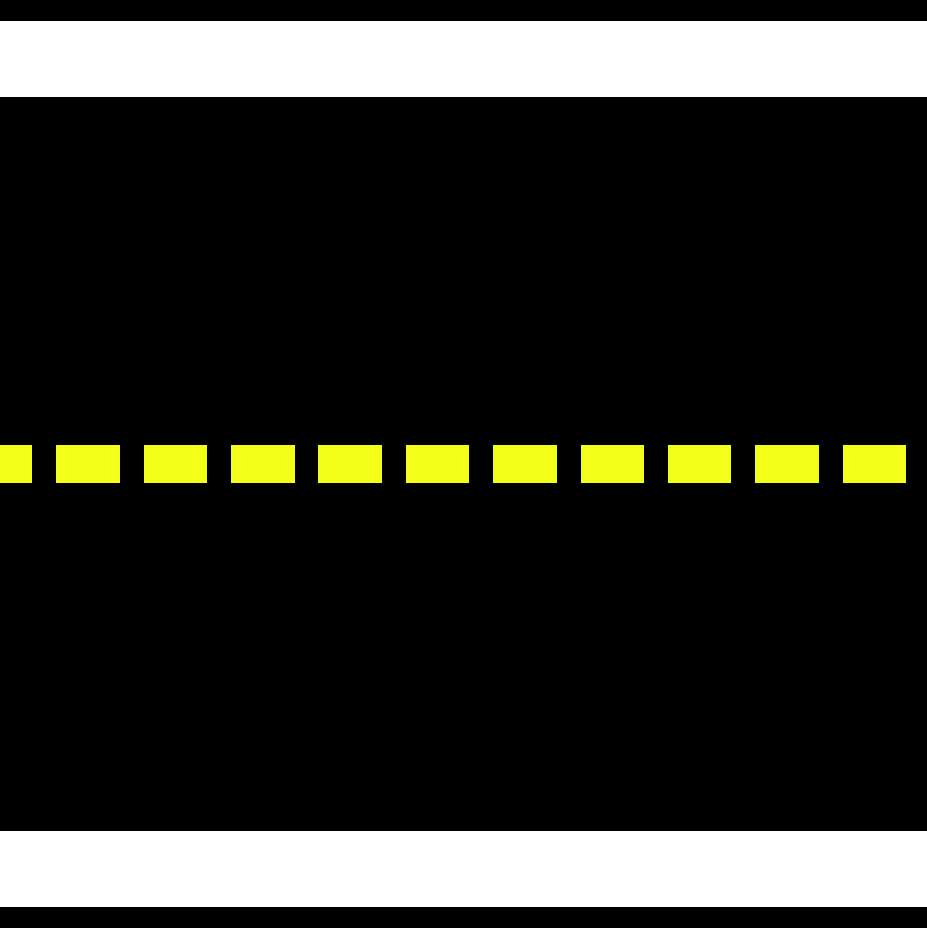
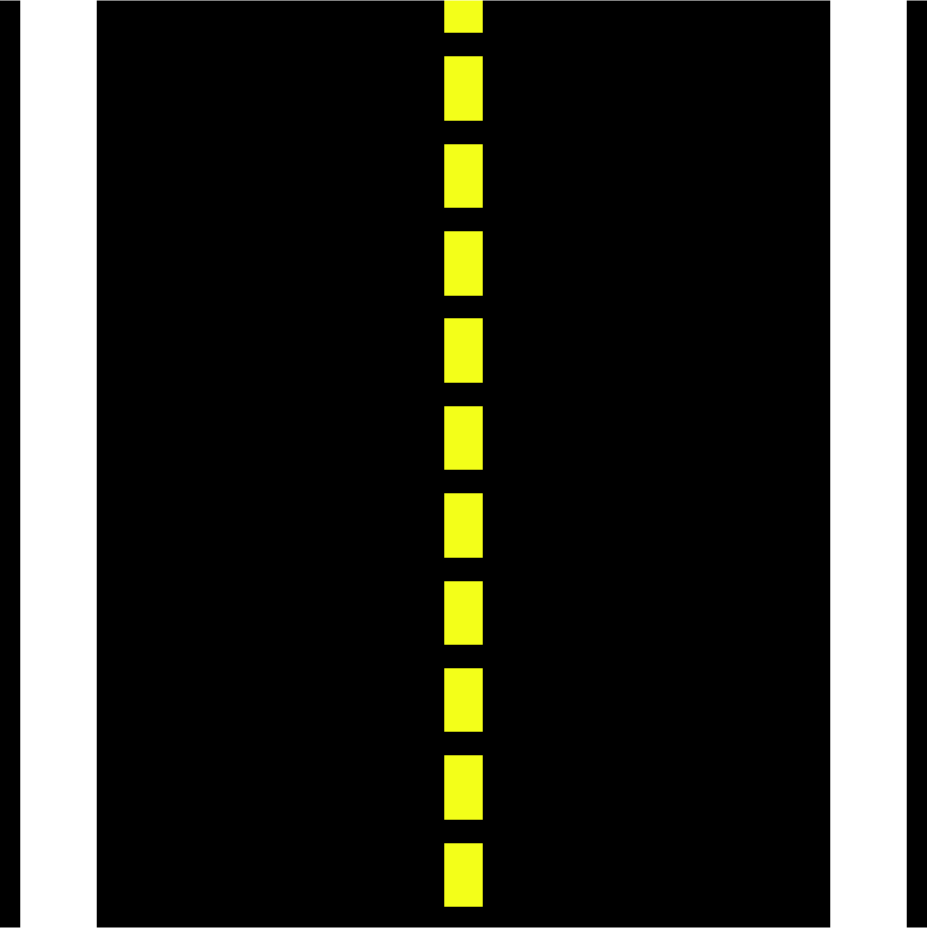
changed rotation for striaght road

diff --git a/packages/map_editor/mapAPI.py b/packages/map_editor/mapAPI.py
@@ -77,20 +77,16 @@ class MapAPI:
         try:
             # 1) main.yaml
             main_yaml_path = os.path.join(target_dir, "main.yaml")
-            if not os.path.isfile(main_yaml_path):
-                main_yaml_content = (
-                    "version: 1.0\n"
-                    "main:\n"
-                    "  frames: !include \"frames.yaml\"\n"
-                    "  tiles: !include \"tiles.yaml\"\n"
-                    "  tile_maps: !include \"tile_maps.yaml\"\n"
-                    "  traffic_signs: !include \"traffic_signs.yaml\"\n"
-                    "  ground_tags: !include \"ground_tags.yaml\"\n"
-                    "  citizens: !include \"citizens.yaml\"\n"
-                    "  watchtowers: !include \"watchtowers.yaml\"\n"
-                )
-                with open(main_yaml_path, "w", encoding="utf-8") as f:
-                    f.write(main_yaml_content)
+            # Always write a minimal, Duckiematrix-compatible main.yaml
+            main_yaml_content = (
+                "version: 1.0\n"
+                "main:\n"
+                "  frames: !include \"frames.yaml\"\n"
+                "  tiles: !include \"tiles.yaml\"\n"
+                "  tile_maps: !include \"tile_maps.yaml\"\n"
+            )
+            with open(main_yaml_path, "w", encoding="utf-8") as f:
+                f.write(main_yaml_content)
             # 2) assets/
             assets_dir = os.path.join(target_dir, "assets")
             if not os.path.isdir(assets_dir):
